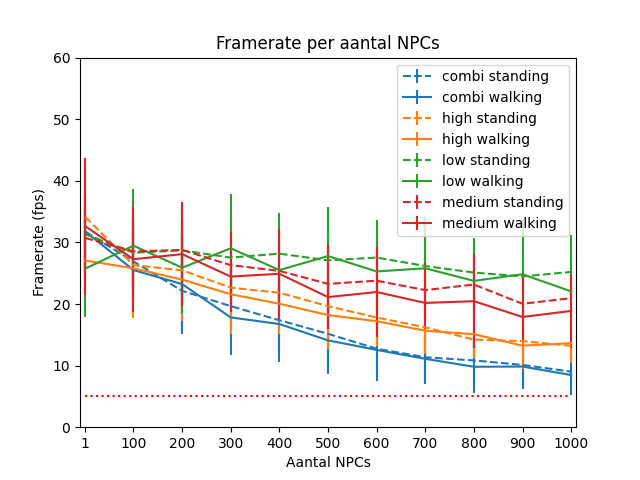
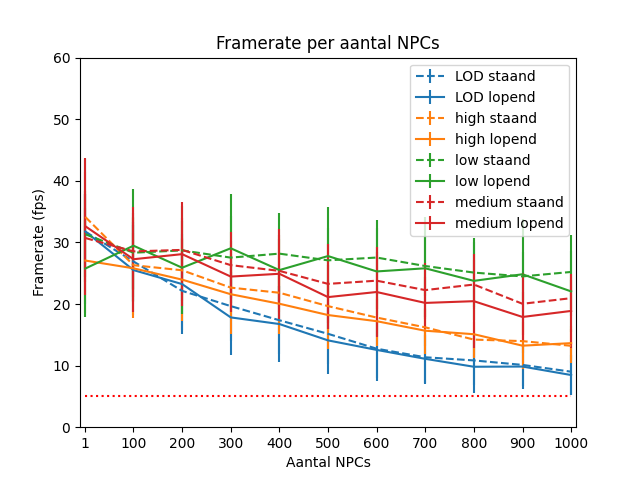
Renamed captions diagrams

Changed region(s): [[0.625, 0.125, 0.875, 0.5]]

diff --git a/experiments/one_test_graph.py b/experiments/one_test_graph.py
@@ -32,11 +32,16 @@ if __name__ == "__main__":
             i += 1
 
         name = test.replace("algo", "").replace("_", " ").capitalize().strip()
+        algo_name = name.split(" ")[0].replace("combi", "LOD")
+        moveable = name.split(" ")[1]
+        moveable_dutch = "lopend" if moveable == "walking" else "staand"
         amount = name.split(" ")[-1]
         npc = "NPC" if amount == "1" else "NPCs"
+        title = f'per tijd voor {room} met ' + \
+            f'{algo_name} {moveable_dutch} {amount} {npc}'
 
         fps_ax.set(xlabel='Tijd (s)', ylabel='Framerate (fps)',
-                   title=f'Framerate per tijd voor {room} met {name} {npc}',
+                   title='Framerate' + title,
                    ylim=(0, 60),
                    xlim=(3, 17),
                    xticks=np.arange(3, 14, 1))
@@ -44,7 +49,7 @@ if __name__ == "__main__":
         fps_ax.legend()
 
         raf_ax.set(xlabel='Tijd (s)', ylabel='Latency (rAF)',
-                   title=f'Latency per tijd voor {room} met {name} {npc}',
+                   title=f'Latency' + title,
                    xlim=(3, 17),
                    xticks=np.arange(3, 14, 1))
 

diff --git a/experiments/diagram.py b/experiments/diagram.py
@@ -128,9 +128,12 @@ def make_diagrams():
                     color_idx += 1
 
                 color = colors[rendering_algorithm]
+                moveable_dutch = "lopend" if moveable == "walking" else "staand"
+                algo_name = rendering_algorithm.replace(
+                    "combi", "LOD")
 
                 plt.errorbar(x_list, avg_list, std_list,
-                             label=f"{rendering_algorithm} {moveable}",
+                             label=f"{algo_name} {moveable_dutch}",
                              linestyle="solid" if moveable == "walking" else "dashed",
                              color=color)
 
